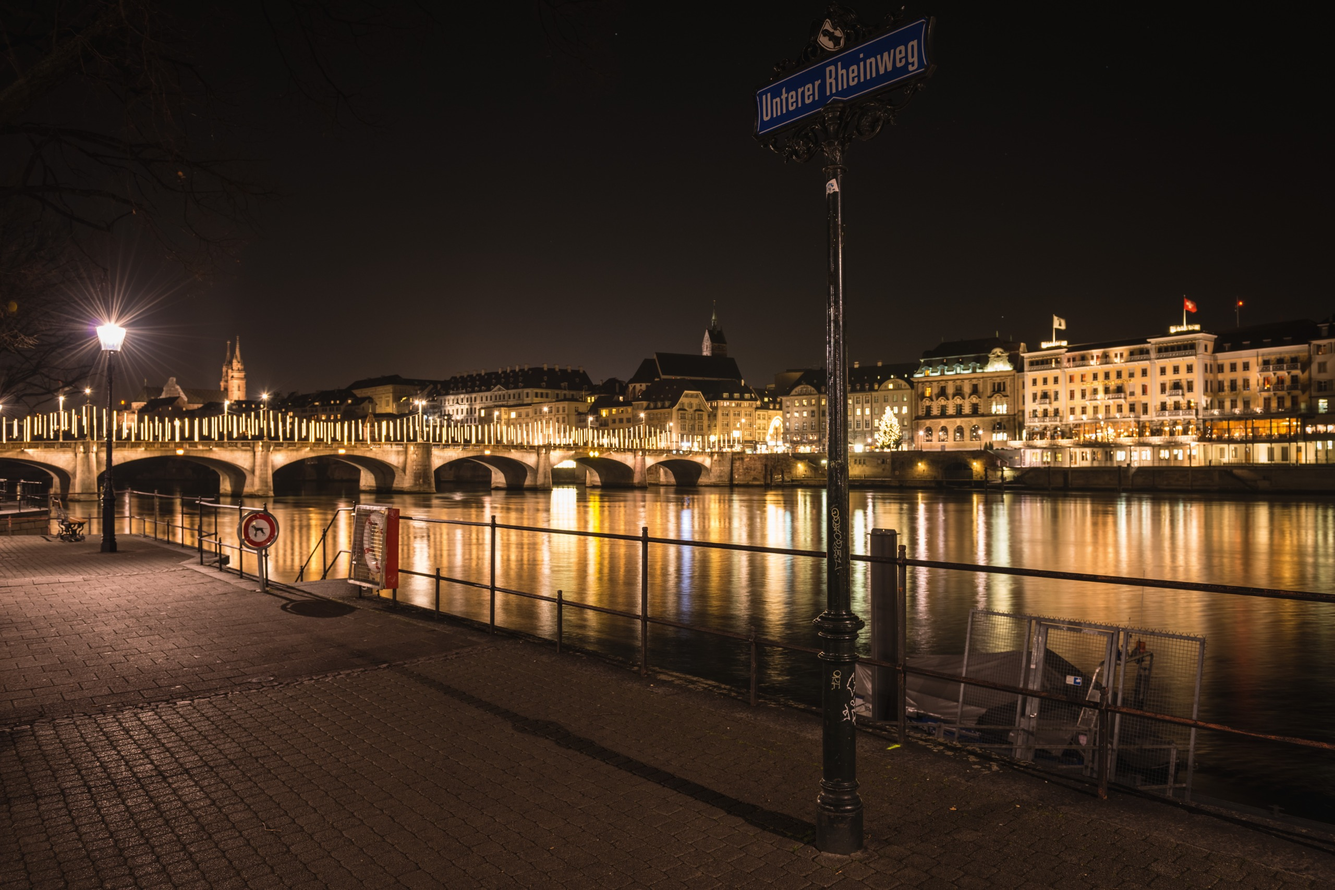
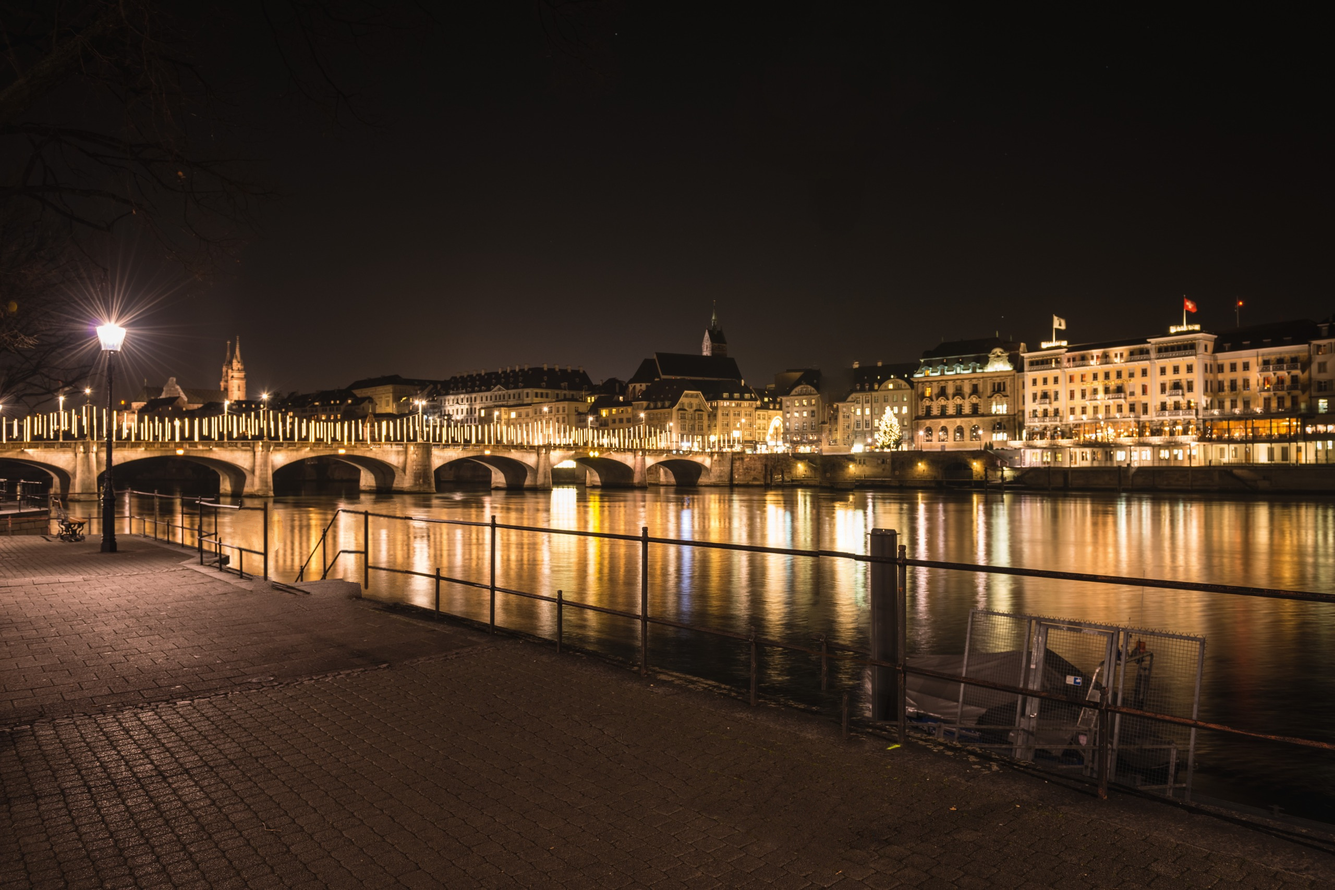
add HighlightsMusic component and integrate music player into gallery pages

diff --git a/components/site/highlights-music.tsx b/components/site/highlights-music.tsx
@@ -1,0 +1,92 @@
+"use client";
+
+import { useEffect, useRef, useState } from "react";
+import { Pause, Play } from "lucide-react";
+import { useTranslations } from "next-intl";
+
+import { mediaUrl } from "@/lib/media";
+
+/**
+ * The music mix that played over each leg's highlights slideshow on the old
+ * site (an autoplaying jQuery player). Here it waits for the reader to press
+ * play: browsers block sound before a click anyway, and a 20-minute, 30 MB
+ * mix should not start downloading on every visit (hence preload="none").
+ */
+const MIXES: Record<string, { file: string; duration: number }> = {
+  "highlights-amerika": { file: "4fotos/audios/amerika_mix.mp3", duration: 1260 },
+  "highlights-asien": { file: "4fotos/audios2/asien_mix.mp3", duration: 1158 },
+  "highlights-ozeanien": { file: "4fotos/audios3/ozeanien_mix.mp3", duration: 1212 },
+};
+
+function clock(seconds: number): string {
+  const s = Math.max(0, Math.floor(seconds));
+  return `${Math.floor(s / 60)}:${String(s % 60).padStart(2, "0")}`;
+}
+
+export function HighlightsMusic({ slug }: { slug: string }) {
+  const t = useTranslations("music");
+  const audio = useRef<HTMLAudioElement>(null);
+  const [playing, setPlaying] = useState(false);
+  const [time, setTime] = useState(0);
+  const mix = MIXES[slug];
+  const [duration, setDuration] = useState(mix?.duration ?? 0);
+
+  // Leaving the page must stop the music.
+  useEffect(() => {
+    const el = audio.current;
+    return () => el?.pause();
+  }, []);
+
+  if (!mix) return null;
+
+  function toggle() {
+    const el = audio.current;
+    if (!el) return;
+    if (el.paused) void el.play().catch(() => setPlaying(false));
+    else el.pause();
+  }
+
+  return (
+    <div className="zb-music" role="group" aria-label={t("label")}>
+      <audio
+        ref={audio}
+        src={mediaUrl(mix.file)}
+        preload="none"
+        loop
+        onPlay={() => setPlaying(true)}
+        onPause={() => setPlaying(false)}
+        onTimeUpdate={(e) => setTime(e.currentTarget.currentTime)}
+        onLoadedMetadata={(e) => Number.isFinite(e.currentTarget.duration) && setDuration(e.currentTarget.duration)}
+      />
+      <button
+        type="button"
+        className="zb-music-toggle"
+        onClick={toggle}
+        aria-pressed={playing}
+        aria-label={playing ? t("pause") : t("play")}
+        title={playing ? t("pause") : t("play")}
+      >
+        {playing ? <Pause className="size-4" aria-hidden /> : <Play className="size-4" aria-hidden />}
+      </button>
+      <span className="zb-music-label">{t("label")}</span>
+      <input
+        type="range"
+        className="zb-music-seek"
+        min={0}
+        max={duration}
+        step={1}
+        value={Math.min(time, duration)}
+        onChange={(e) => {
+          const el = audio.current;
+          if (el) el.currentTime = Number(e.currentTarget.value);
+          setTime(Number(e.currentTarget.value));
+        }}
+        aria-label={t("seek")}
+        aria-valuetext={`${clock(time)} / ${clock(duration)}`}
+      />
+      <span className="zb-music-time">
+        {clock(time)} / {clock(duration)}
+      </span>
+    </div>
+  );
+}

diff --git a/app/globals.css b/app/globals.css
@@ -188,13 +188,14 @@ a:hover {
 
 /* The section banner as an edge-to-edge panorama. The files are 5:2
    (2400x960), so the banner keeps that shape and shows the whole photo on
-   phones and laptops; on wide screens it stops at the height cap so the page
-   still starts above the fold, and is cropped around the per-image focus
-   point (BANNER_FOCUS in content/nav.ts). */
+   phones and most laptops; on wide screens it stops at the height cap so the
+   page still starts above the fold, and is cropped around the per-image focus
+   point (BANNER_FOCUS in content/nav.ts). The cap is generous on purpose: the
+   scenery is the point (1440x900 shows ~97% of the photo, 1920x1080 ~81%). */
 .zb-hero {
   position: relative;
   aspect-ratio: 5 / 2;
-  max-height: min(45vh, 420px);
+  max-height: min(62vh, 620px);
   min-height: 140px;
   width: 100%;
   overflow: hidden;
@@ -335,6 +336,66 @@ a:hover {
 .zb-nav a:focus-visible,
 .zb-theme:focus-visible {
   box-shadow: 0 0 0 2px var(--color-accent);
+}
+
+/* The music player above a highlights gallery: the menu bar's frosted pill. */
+.zb-music {
+  display: flex;
+  align-items: center;
+  gap: 12px;
+  margin: 0 0 1.5em;
+  padding: 6px 16px 6px 6px;
+  border: 1px solid var(--zb-glass-line);
+  border-radius: 999px;
+  background: var(--zb-glass);
+  box-shadow: var(--zb-glass-shadow);
+  color: var(--zb-glass-fg);
+  -webkit-backdrop-filter: blur(12px);
+  backdrop-filter: blur(12px);
+}
+.zb-music-toggle {
+  display: grid;
+  flex: none;
+  width: 38px;
+  height: 38px;
+  place-items: center;
+  padding: 0;
+  border: 0;
+  border-radius: 50%;
+  background: var(--zb-button);
+  color: #e0e0e0;
+  cursor: pointer;
+  transition: background 0.15s ease;
+}
+.zb-music-toggle:hover {
+  background: var(--zb-button-hover);
+}
+.zb-music-toggle:focus-visible {
+  outline: none;
+  box-shadow: 0 0 0 2px var(--color-accent);
+}
+.zb-music-label {
+  flex: none;
+  font-family: var(--zb-caption-font);
+  font-size: var(--zb-caption-size);
+}
+.zb-music-seek {
+  flex: 1;
+  min-width: 0;
+  accent-color: var(--zb-link);
+  cursor: pointer;
+}
+.zb-music-time {
+  flex: none;
+  color: var(--zb-glass-muted);
+  font-family: var(--zb-mono);
+  font-size: 12px;
+  font-variant-numeric: tabular-nums;
+}
+@media (max-width: 520px) {
+  .zb-music-label {
+    display: none;
+  }
 }
 
 /* Sidebar beside the content, kept in view while reading. */
@@ -554,7 +615,10 @@ a:hover {
 
 /* ---------------------------------------------------- tablet and phone */
 
-@media (max-width: 760px) {
+/* The compact frame (menu button, no sidebar) runs up to 959px: iPads in
+   portrait (744-834px) cannot fit the desktop menu bar and sidebar beside
+   the page, and the content needs the whole width there. */
+@media (max-width: 959px) {
   .zb-body {
     display: block;
   }
@@ -658,6 +722,10 @@ a:hover {
     height: 34px;
   }
 
+}
+
+/* Phone-sized content: smaller print, pictures on their own row. */
+@media (max-width: 760px) {
   .zb-content {
     padding-top: 1em;
   }

diff --git a/app/[locale]/layout.tsx b/app/[locale]/layout.tsx
@@ -1,12 +1,13 @@
 import type { Metadata } from "next";
 import { Atkinson_Hyperlegible_Next } from "next/font/google";
 import { notFound } from "next/navigation";
+import { Analytics } from "@vercel/analytics/next";
 import { hasLocale, NextIntlClientProvider } from "next-intl";
 import { getTranslations, setRequestLocale } from "next-intl/server";
 
 import { routing } from "@/i18n/routing";
 import { SiteChrome } from "@/components/site/site-chrome";
-import { THEME_SCRIPT } from "@/lib/theme";
+import { ThemeScript } from "@/components/site/theme-script";
 import { SITE_URL } from "@/lib/seo";
 import "../globals.css";
 
@@ -66,7 +67,7 @@ export default async function LocaleLayout({
     // The theme script adds "dark" before React hydrates, hence the warning opt-out.
     <html lang={locale} className={labelFont.variable} suppressHydrationWarning>
       <head>
-        <script dangerouslySetInnerHTML={{ __html: THEME_SCRIPT }} />
+        <ThemeScript />
       </head>
       {/* Browser extensions (Grammarly and the like) add attributes to <body>
           before React loads; they are not ours to match. */}
@@ -74,6 +75,9 @@ export default async function LocaleLayout({
         <NextIntlClientProvider>
           <SiteChrome>{children}</SiteChrome>
         </NextIntlClientProvider>
+        {/* Vercel Web Analytics: cookieless page views. Sends nothing in
+            development; enable it in the Vercel project's Analytics tab. */}
+        <Analytics />
       </body>
     </html>
   );

diff --git a/lib/theme.ts b/lib/theme.ts
@@ -2,7 +2,19 @@
 export const THEME_KEY = "zb-theme";
 
 /**
- * Runs in <head> before the first paint, so a dark page never flashes light:
- * the reader's own choice if they made one, otherwise the system setting.
+ * Puts "dark" on <html> if the reader chose it, or, with no choice stored, if
+ * the system prefers it. Self-contained (no outer references), because its
+ * source is also inlined as THEME_SCRIPT.
  */
-export const THEME_SCRIPT = `try{var t=localStorage.getItem("${THEME_KEY}");if(t==="dark"||(!t&&matchMedia("(prefers-color-scheme: dark)").matches))document.documentElement.classList.add("dark")}catch(e){}`;
+export function applyTheme(key: string) {
+  try {
+    const t = localStorage.getItem(key);
+    if (t === "dark" || (!t && matchMedia("(prefers-color-scheme: dark)").matches))
+      document.documentElement.classList.add("dark");
+  } catch {
+    // storage blocked: stay light
+  }
+}
+
+/** Runs in <head> before the first paint, so a dark page never flashes light. */
+export const THEME_SCRIPT = `(${applyTheme.toString()})(${JSON.stringify(THEME_KEY)})`;

diff --git a/components/site/theme-script.tsx b/components/site/theme-script.tsx
@@ -1,0 +1,29 @@
+"use client";
+
+import { useLayoutEffect } from "react";
+
+import { applyTheme, THEME_KEY, THEME_SCRIPT } from "@/lib/theme";
+
+/**
+ * Sets the light/dark class on <html> before the first paint.
+ *
+ * In the server HTML this is a real script, so the browser runs it while
+ * parsing <head>. React never runs scripts it creates itself, and warns when it
+ * meets one, which happens when the [locale] layout mounts in the browser (the
+ * language switch is a client navigation). There the tag is an inert data block
+ * and the layout effect applies the theme instead, still before paint.
+ */
+export function ThemeScript() {
+  useLayoutEffect(() => {
+    applyTheme(THEME_KEY);
+  }, []);
+
+  return (
+    <script
+      // Differs between server and client on purpose; see above.
+      type={typeof window === "undefined" ? undefined : "text/plain"}
+      suppressHydrationWarning
+      dangerouslySetInnerHTML={{ __html: THEME_SCRIPT }}
+    />
+  );
+}

diff --git a/app/[locale]/fotos/[slug]/page.tsx b/app/[locale]/fotos/[slug]/page.tsx
@@ -5,6 +5,7 @@ import { setRequestLocale } from "next-intl/server";
 import { routing } from "@/i18n/routing";
 import { PhotoOverview } from "@/components/site/photo-overview";
 import { Gallery as GalleryView } from "@/components/site/gallery";
+import { HighlightsMusic } from "@/components/site/highlights-music";
 import { ALL_GALLERIES, FOTO_OVERVIEWS, getGallery, getPage, localName, translatedTitle } from "@/lib/content";
 import { pageAlternates } from "@/lib/seo";
 
@@ -41,6 +42,7 @@ export default async function Page({ params }: { params: Promise<{ locale: strin
   return (
     <>
       <h1>{localName(slug, gallery.name, locale)}</h1>
+      <HighlightsMusic slug={slug} />
       <GalleryView items={gallery.items} />
     </>
   );

diff --git a/content/translations/en/varia.html b/content/translations/en/varia.html
@@ -2,7 +2,6 @@
 <div>
       
  
-  <p>Anything in here will be replaced on browsers that support the canvas element</p>
   
   
  <ul>
